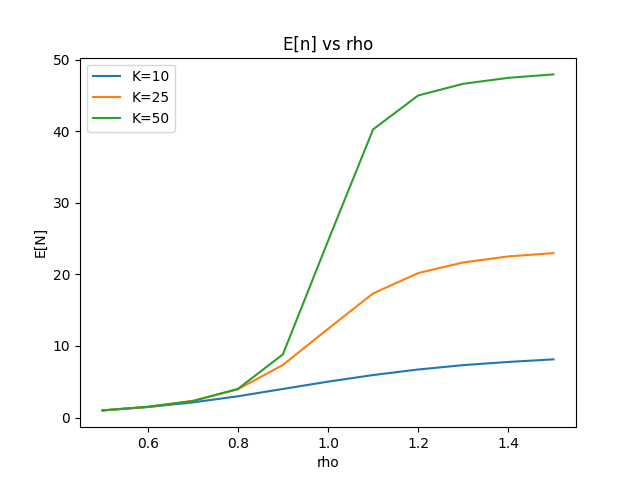
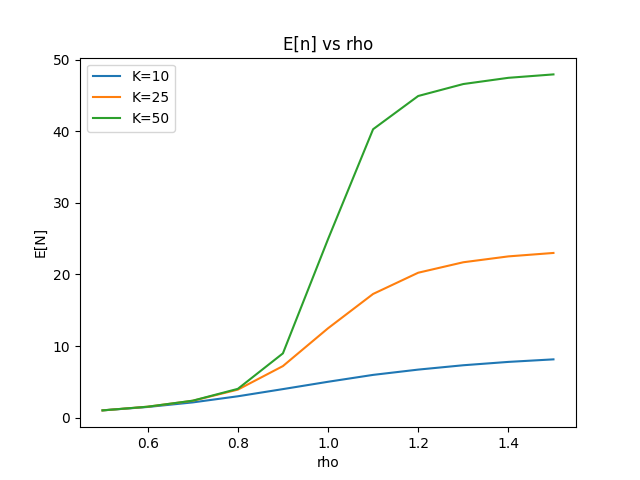
Fixing comments and small mistake

diff --git a/Q6.py b/Q6.py
@@ -2,7 +2,6 @@
 import random
 import math
 import matplotlib.pyplot as plt
-import datetime
 from collections import deque
 
 
@@ -146,7 +145,7 @@ def queueProcessing(DES, T, total_lost, total_created_packets):
             total_packets += (N_a - N_d)
         i += 1
 
-    # calculating E[N] and P_IDLE
+    # calculating E[N], P_IDLE, and P_LOSS
     E_N = total_packets / N_o
     P_IDLE = idle / N_o
     P_LOSS = total_lost / total_created_packets
@@ -182,12 +181,15 @@ if __name__ == '__main__':
 
     f1 = plt.figure()
     f2 = plt.figure()
+
+    # setting up figure 1 for E[N] vs rho
     ax1 = f1.add_subplot(1, 1, 1)
     ax2 = f2.add_subplot(1, 1, 1)
     ax1.set_xlabel('rho')
     ax1.set_ylabel('E[N]')
     ax1.set_title("E[n] vs rho")
 
+    # setting up figure 2 for P_IDLE vs rho
     ax2.set_xlabel('rho')
     ax2.set_ylabel('P_LOSS')
     ax2.set_title("P_LOSS vs rho")
@@ -200,20 +202,18 @@ if __name__ == '__main__':
             rho = j / 100  # utilization of queue
             lamb = (C * rho) / avg_l  # average number of packets generated / second
 
-            # calls one iteration of the simulation to output one pair of E[N] and P_IDLE
+            # calls one iteration of the simulation to output one pair of E[N] and P_LOSS
             E_N, P_IDLE, P_LOSS = oneSimulation(lamb, avg_l, C, T, K)
 
             # append the values onto an array to later graph
             ENArray.append(E_N)
-            PLOSSArray.append(P_IDLE)
+            PLOSSArray.append(P_LOSS)
             rhoArray.append(rho)
 
-        # create two subplots so that both E[N] and P_IDLE plot at the same time
+        # create two subplots so that both E[N] and P_LOSS plot at the same time
 
-        # setting up figure 1 for E[N] vs rho
         ax1.plot(rhoArray, ENArray, label="K=" + str(K))
 
-        # setting up figure 2 for P_IDLE vs rho
         ax2.plot(rhoArray, PLOSSArray, label="K=" + str(K))
 
     ax1.legend()
